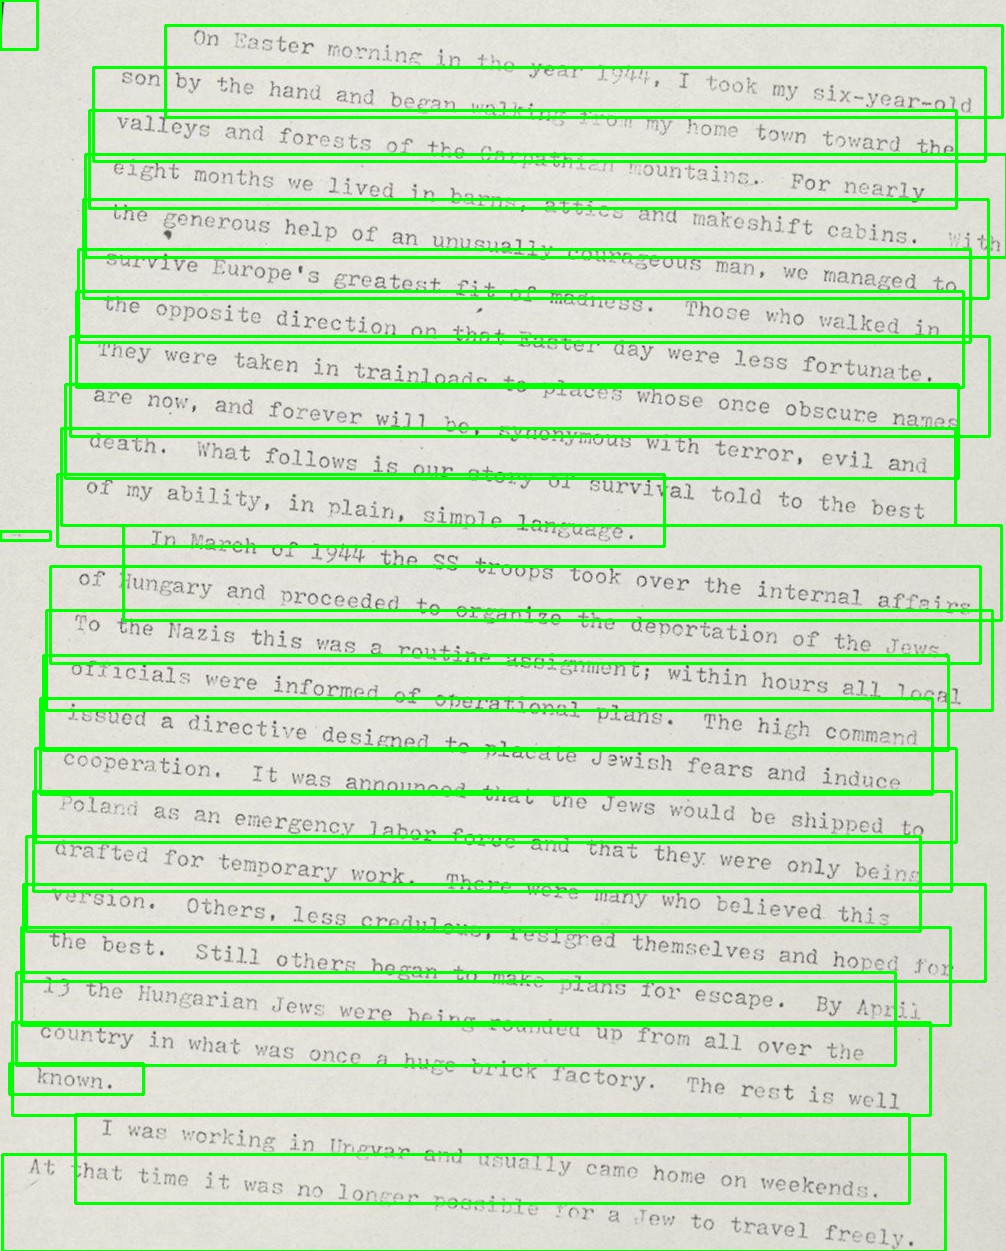
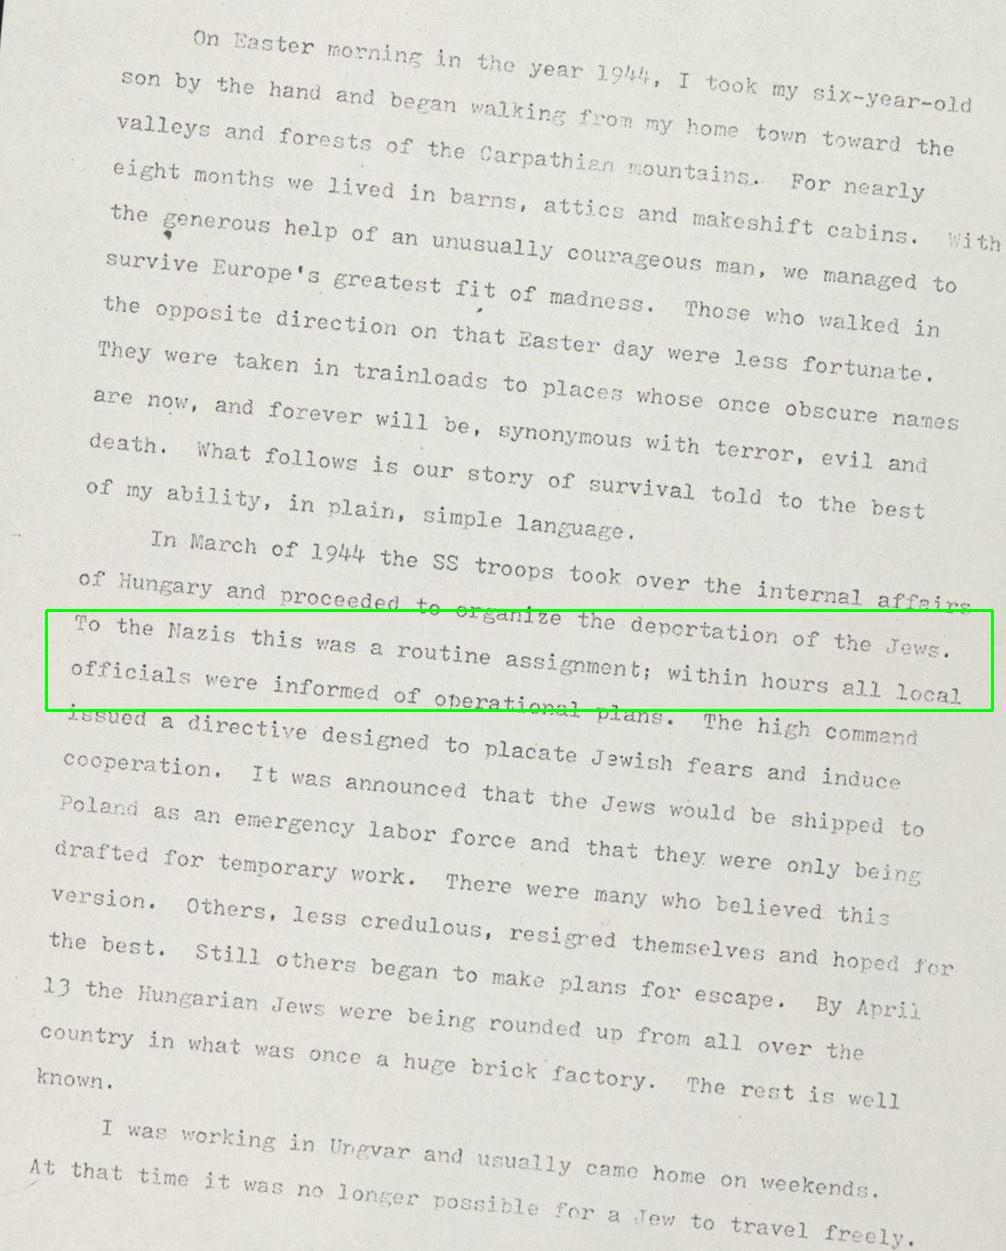
Add dilation, erosion, rotated, deskewing for preprocessing image

Changed region(s): [[0.0, 0.0, 1.0, 1.0], [0.0, 0.0, 0.0616, 0.0624]]

diff --git a/Section4-Preprocess_Images_For_TextOCR/rotated_deskewing.py b/Section4-Preprocess_Images_For_TextOCR/rotated_deskewing.py
@@ -1,0 +1,63 @@
+# Rotated and Deskewing
+# Make sure no borders
+
+import cv2 as cv
+import numpy as np
+
+new = cv.imread("Section4-Preprocess_Images_For_TextOCR/data/page_01_rotated.jpg")
+cv.imshow('New Image', new)
+
+def getSkewAngle(cvImage) -> float:
+  # Prep image, copy, convert to gray scale, blur, and threshold
+  newImage = cvImage.copy()
+  gray = cv.cvtColor(newImage, cv.COLOR_BGR2GRAY)
+  blur = cv.GaussianBlur(gray, (9,9), 0)
+  thresh = cv.threshold(blur, 0, 255, cv.THRESH_BINARY_INV + cv.THRESH_OTSU)[1]
+
+  # Apply dilate to merge text into meaningful lines/paragraphs.
+  # Use larger kernel on x axis to merge characters into single line, cancelling out any spaces.
+  # But use smaller kernel on Y axis to separate between different blocks of text
+  kernel = cv.getStructuringElement(cv.MORPH_RECT, (30, 5))
+  dilate = cv.dilate(thresh, kernel, iterations=2)
+
+  # Find all contours
+  contours, hierarchy = cv.findContours(dilate, cv.RETR_LIST, cv.CHAIN_APPROX_SIMPLE)
+  contours = sorted(contours, key= cv.contourArea, reverse = True)
+  for c in contours:
+    rect = cv.boundingRect(c)
+    x,y,w,h = rect
+    cv.rectangle(newImage, (x,y), (x+w, y+h), (0,255,0), 2)
+
+    # Find largest contour and surround in min area box
+    largestContour = contours[0]
+    print(len(contours))
+    minAreaRect = cv.minAreaRect(largestContour)
+    cv.imwrite("Section4-Preprocess_Images_For_TextOCR/temp/boxes.jpg", newImage)
+
+    # Determine the angle. Convert it to the value that was originally used to obtain skewed image
+    angle = minAreaRect[-1]
+    if angle < -45:
+      angle = 90 + angle
+    return -1.0 * angle
+  
+# Rotate the image around its center
+def rotateImage(cvImage, angle:float):
+  newImage = cvImage.copy()
+  (h, w) = newImage.shape[:2]
+  center = (w//2, h//2)
+  M = cv.getRotationMatrix2D(center, angle, 1.0)
+  newImage = cv.warpAffine(newImage, M, (w,h), flags=cv.INTER_CUBIC, borderMode=cv.BORDER_REPLICATE)
+  return newImage
+
+# Deskew image
+def deskew(cvImage):
+  angle = getSkewAngle(cvImage)
+  return rotateImage(cvImage, -1.0 * angle)
+  
+# Rotate the image to the best view angle
+fixed = deskew(new)
+cv.imwrite("Section4-Preprocess_Images_For_TextOCR/rotated_fixed.jpg", fixed)
+rotated_fixed = cv.imread("Section4-Preprocess_Images_For_TextOCR/rotated_fixed.jpg")
+cv.imshow("Rotated Fixed", rotated_fixed)
+
+cv.waitKey(0)

diff --git a/Section4-Preprocess_Images_For_TextOCR/dilation_erosion.py b/Section4-Preprocess_Images_For_TextOCR/dilation_erosion.py
@@ -1,0 +1,32 @@
+# 5 - Dilation & Erosion
+# ~ To actually adjust the font size
+
+import cv2 as cv
+import numpy as np
+
+no_noise = cv.imread("Section4-Preprocess_Images_For_TextOCR/temp/no_noise.jpg")
+cv.imshow('No Noise Image', no_noise)
+
+def thin_font(image):
+  image = cv.bitwise_not(image)
+  kernel = np.ones((2,2),np.uint8)
+  image = cv.erode(image, kernel, iterations=1)
+  image = cv.bitwise_not(image)
+  return (image)
+
+eroded_image = thin_font(no_noise)
+cv.imwrite("Section4-Preprocess_Images_For_TextOCR/temp/eroded_image.jpg", eroded_image)
+cv.imshow('Eroded Image', eroded_image)
+
+def thick_font(image):
+  image = cv.bitwise_not(image)
+  kernel = np.ones((2,2),np.uint8)
+  image = cv.dilate(image, kernel, iterations=1)
+  image = cv.bitwise_not(image)
+  return (image)
+
+dilated_image = thick_font(no_noise)
+cv.imwrite("Section4-Preprocess_Images_For_TextOCR/temp/dilated_image.jpg", dilated_image)
+cv.imshow('Dilated Image', dilated_image)
+
+cv.waitKey(0)

diff --git a/Section4-Preprocess_Images_For_TextOCR/noise_removal.py b/Section4-Preprocess_Images_For_TextOCR/noise_removal.py
@@ -18,7 +18,7 @@ def noise_removal(image):
   return (image)
 
 no_noise = noise_removal(im_bw)
-# cv.imwrite("Section4-Preprocess_Images_For_TextOCR/temp/no_noise.jpg", no_noise)
+cv.imwrite("Section4-Preprocess_Images_For_TextOCR/temp/no_noise.jpg", no_noise)
 cv.imshow('No Noise Image', no_noise)
 
 cv.waitKey(0)
